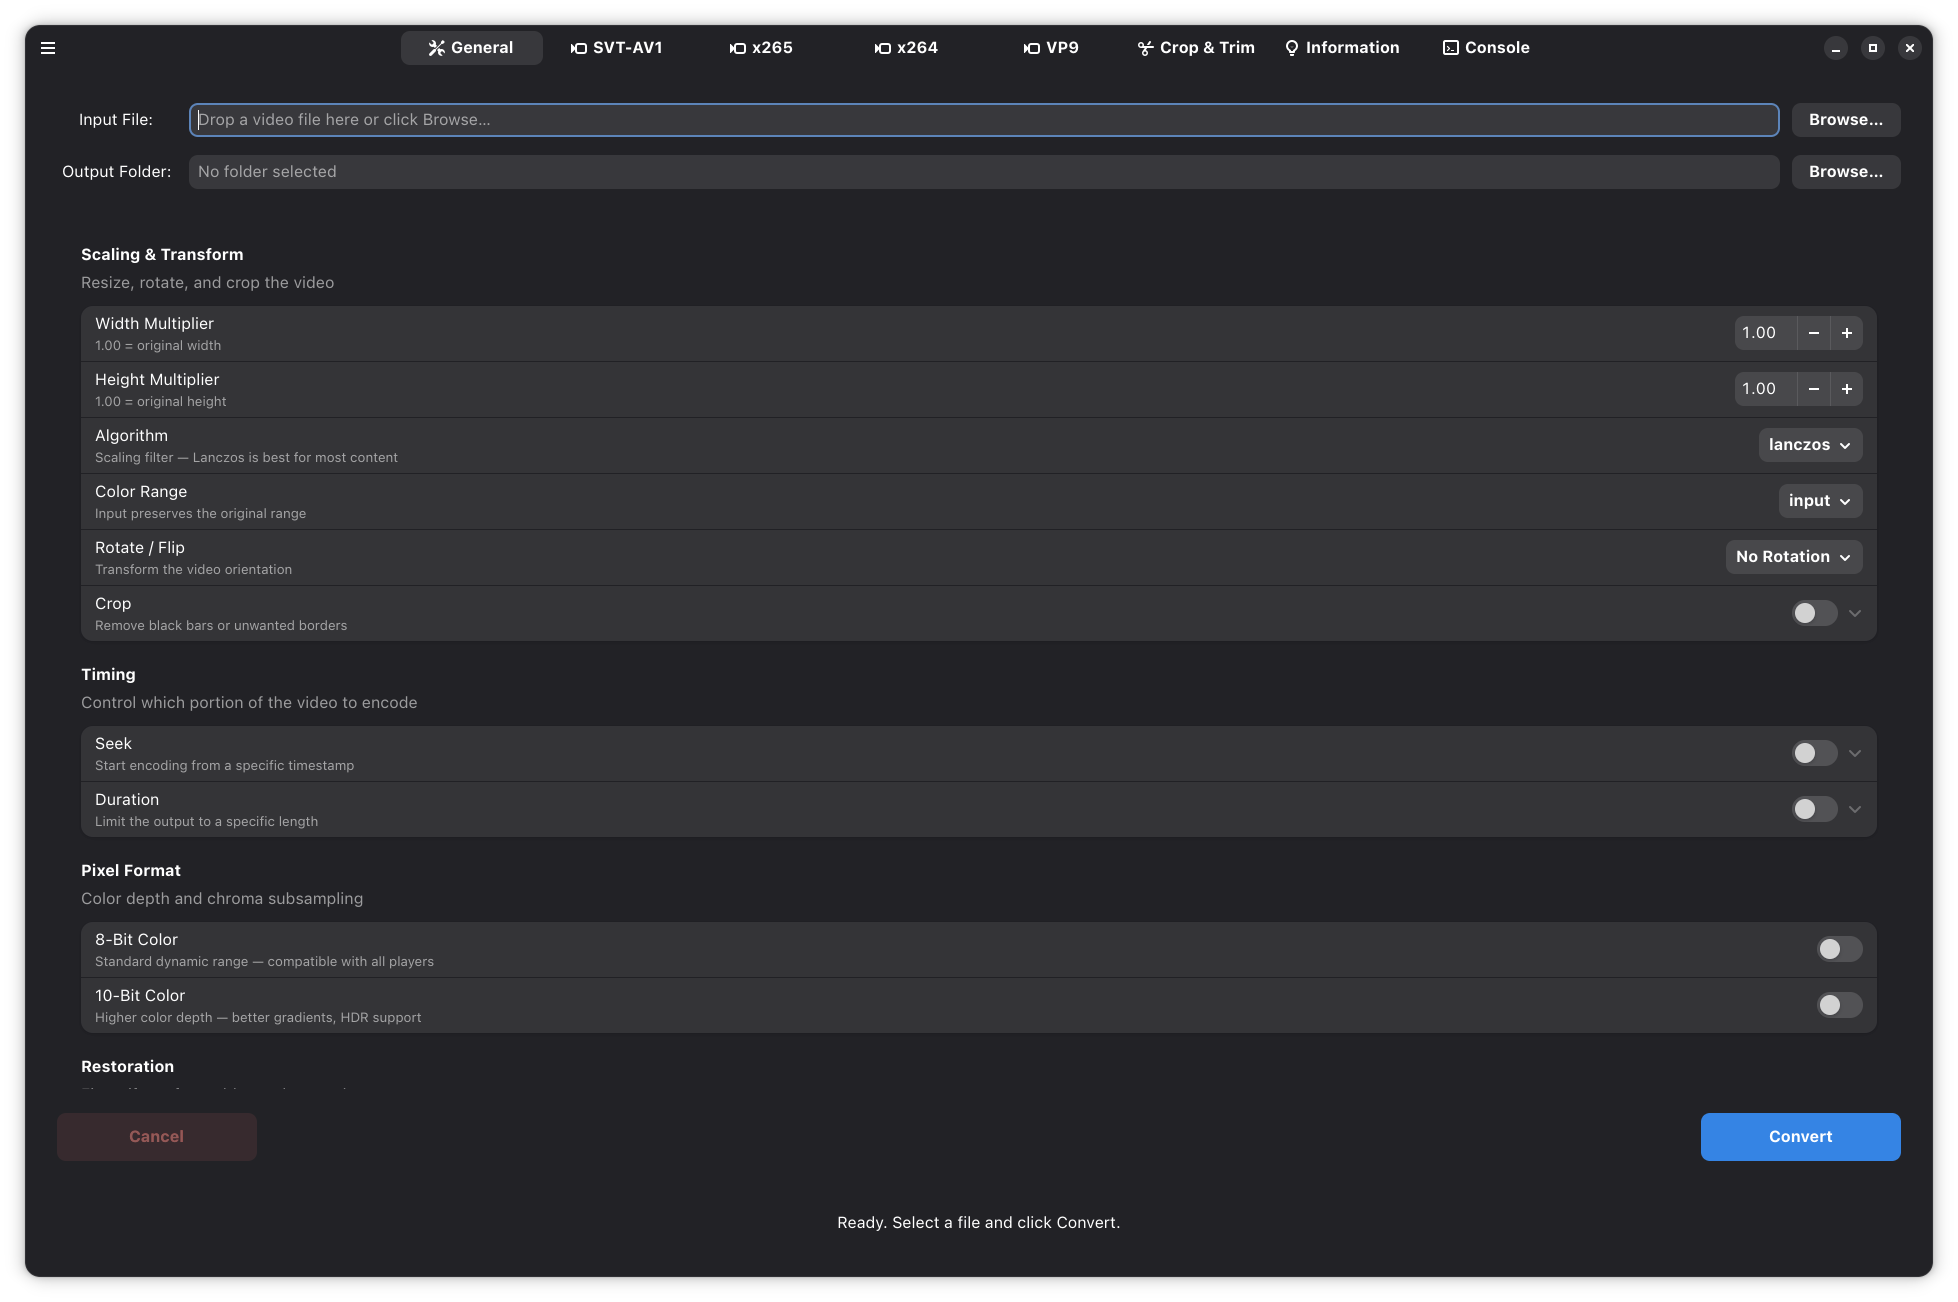
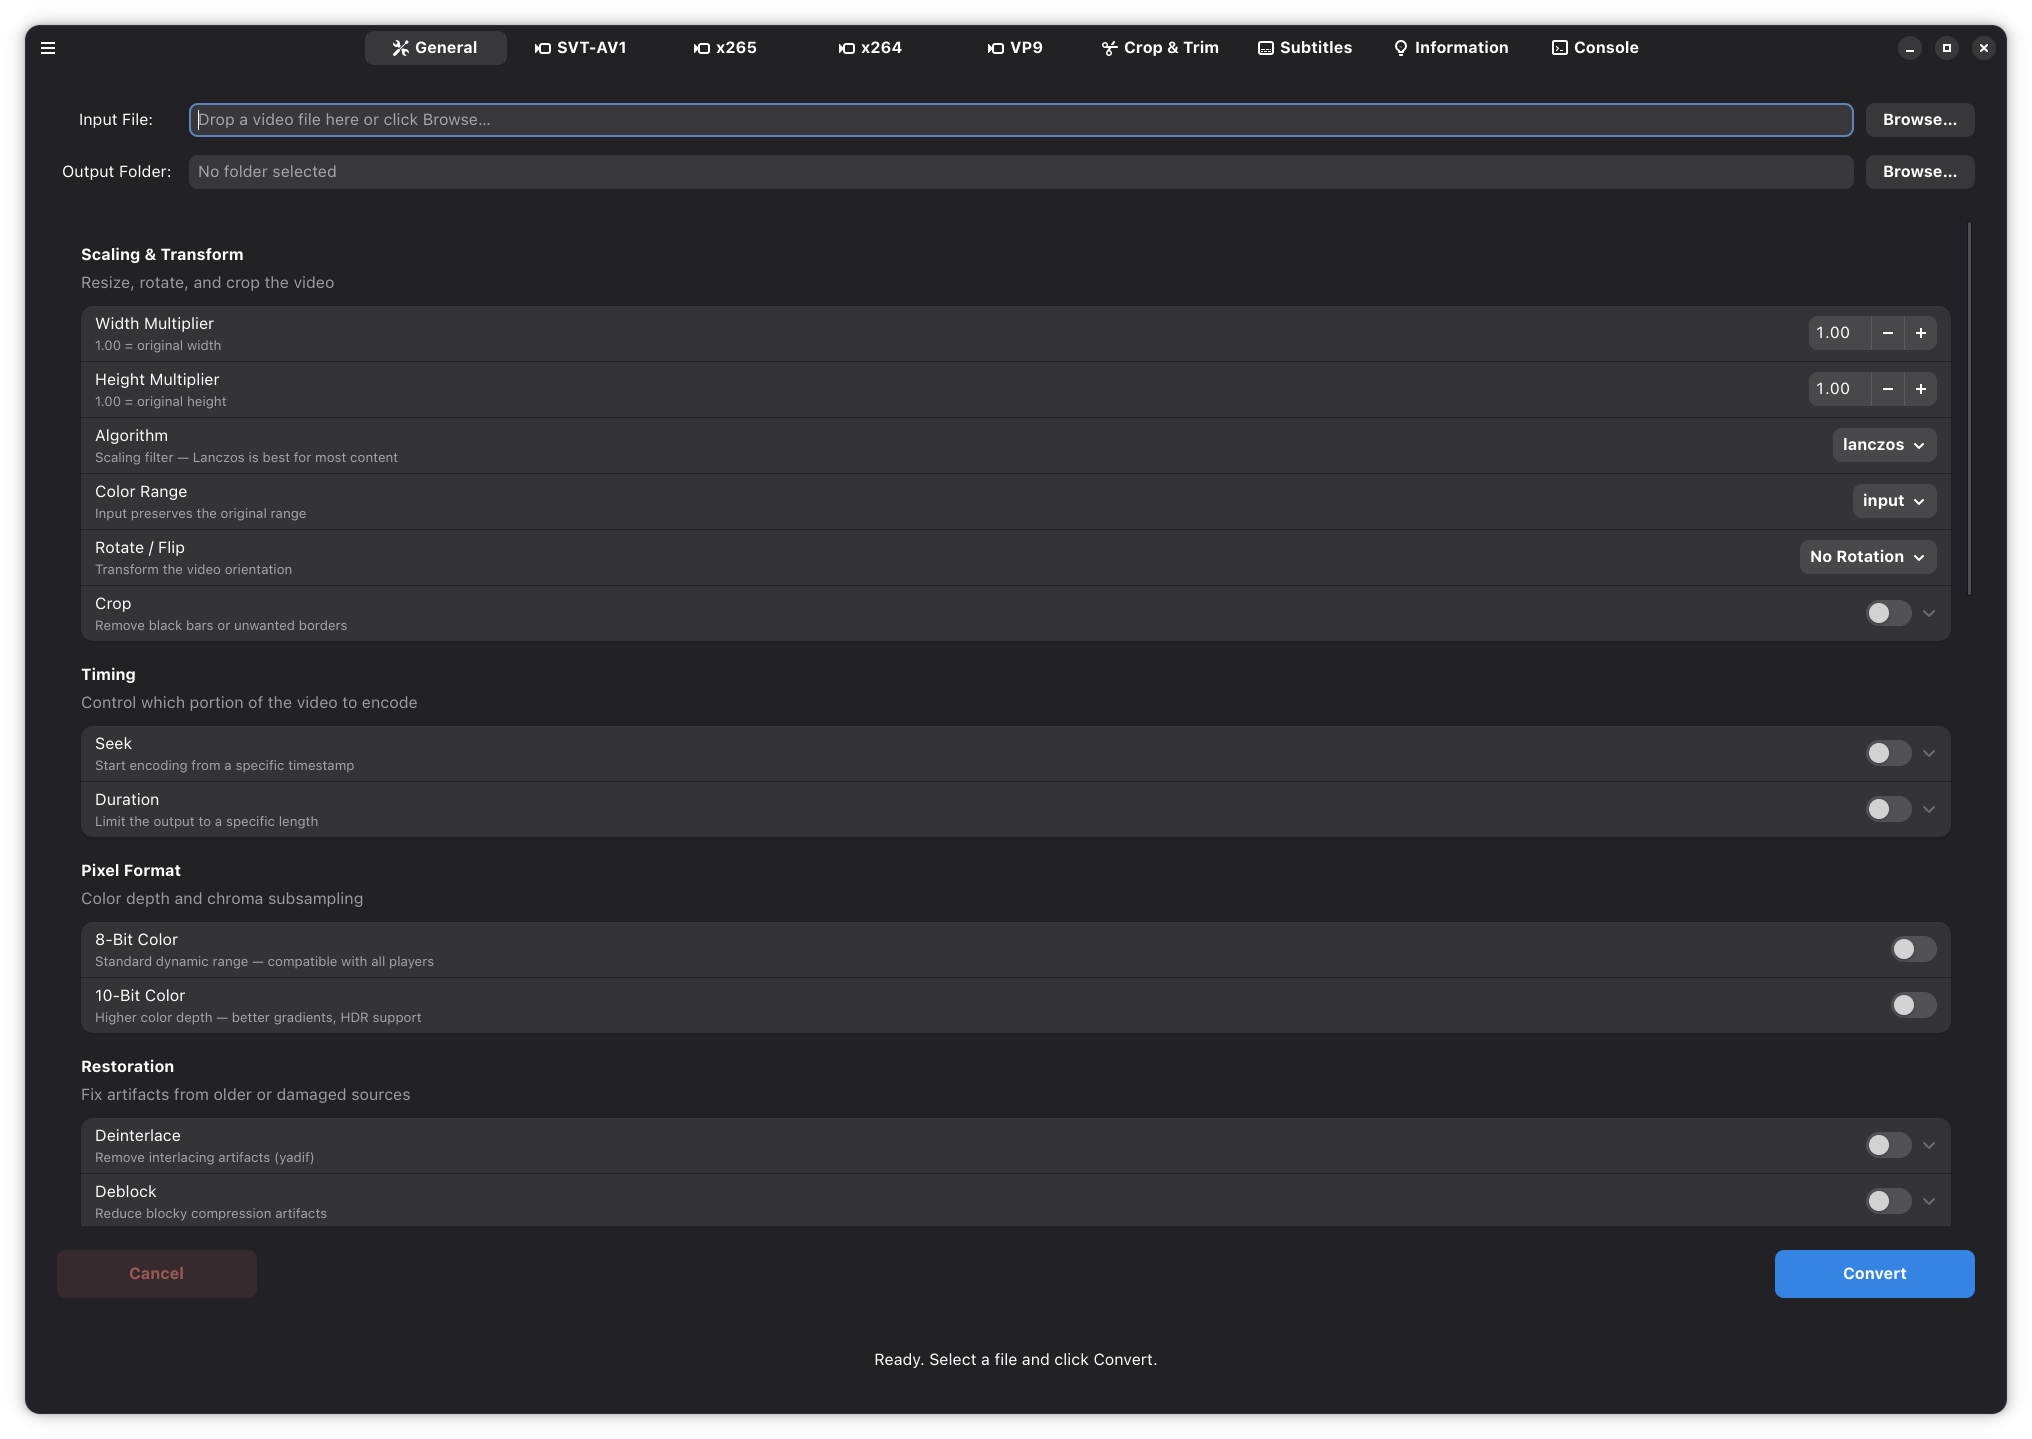
updated readme and screenshot

diff --git a/README.md b/README.md
@@ -13,6 +13,7 @@ My own pet project. FFmpeg-Converter-GTK a simple GTK / Libadwaita frontend for 
 - Audio codec support for AAC, FLAC, MP3, MP3, Opus, and Vorbis
 - Live console output for debugging, and detailed information tab for video metadata
 - Extensive color and light correction and alteration. Full RGB manipulation.
+- Subtitles tab to reorder, remove, add, and extract subtitles.
 - Crop & Trim tab that supports cutting, trimming, scrubbing, re-encoding, copy, creating individual and concatenate segments, and interactive cropping. You can select regions with your mouse, in the video player and crop away! Even cropping on a per segment basis + concatenate.
 - By default uses system FFmpeg but you can set custom paths for FFmpeg and its tools like FFprobe for you can use different FFmpeg versions.
 - Native Adwaita UI
